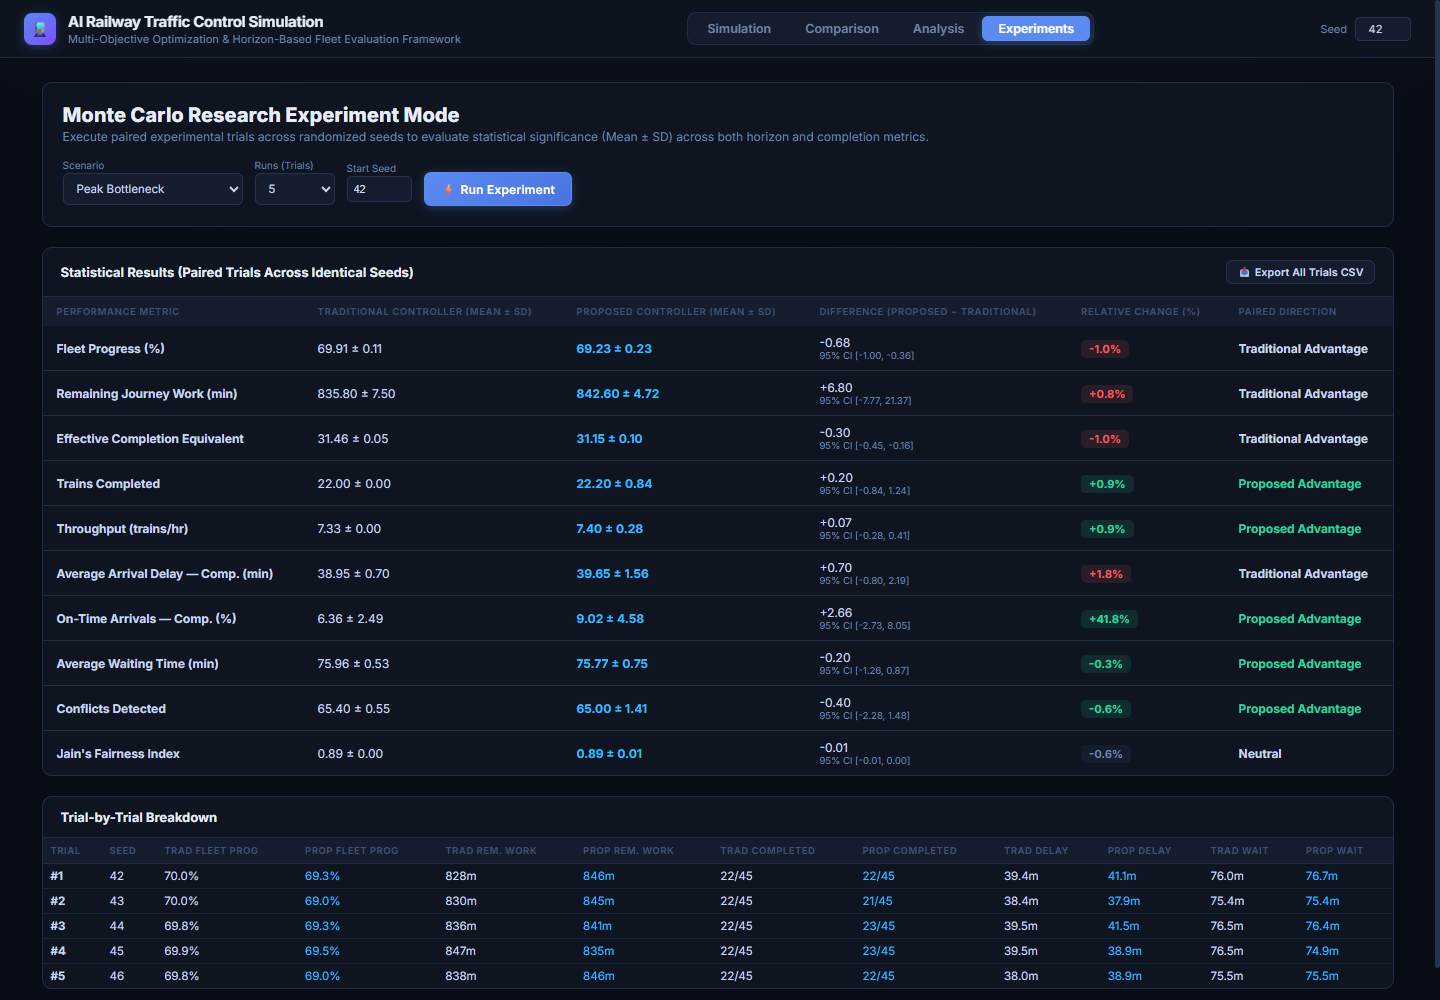
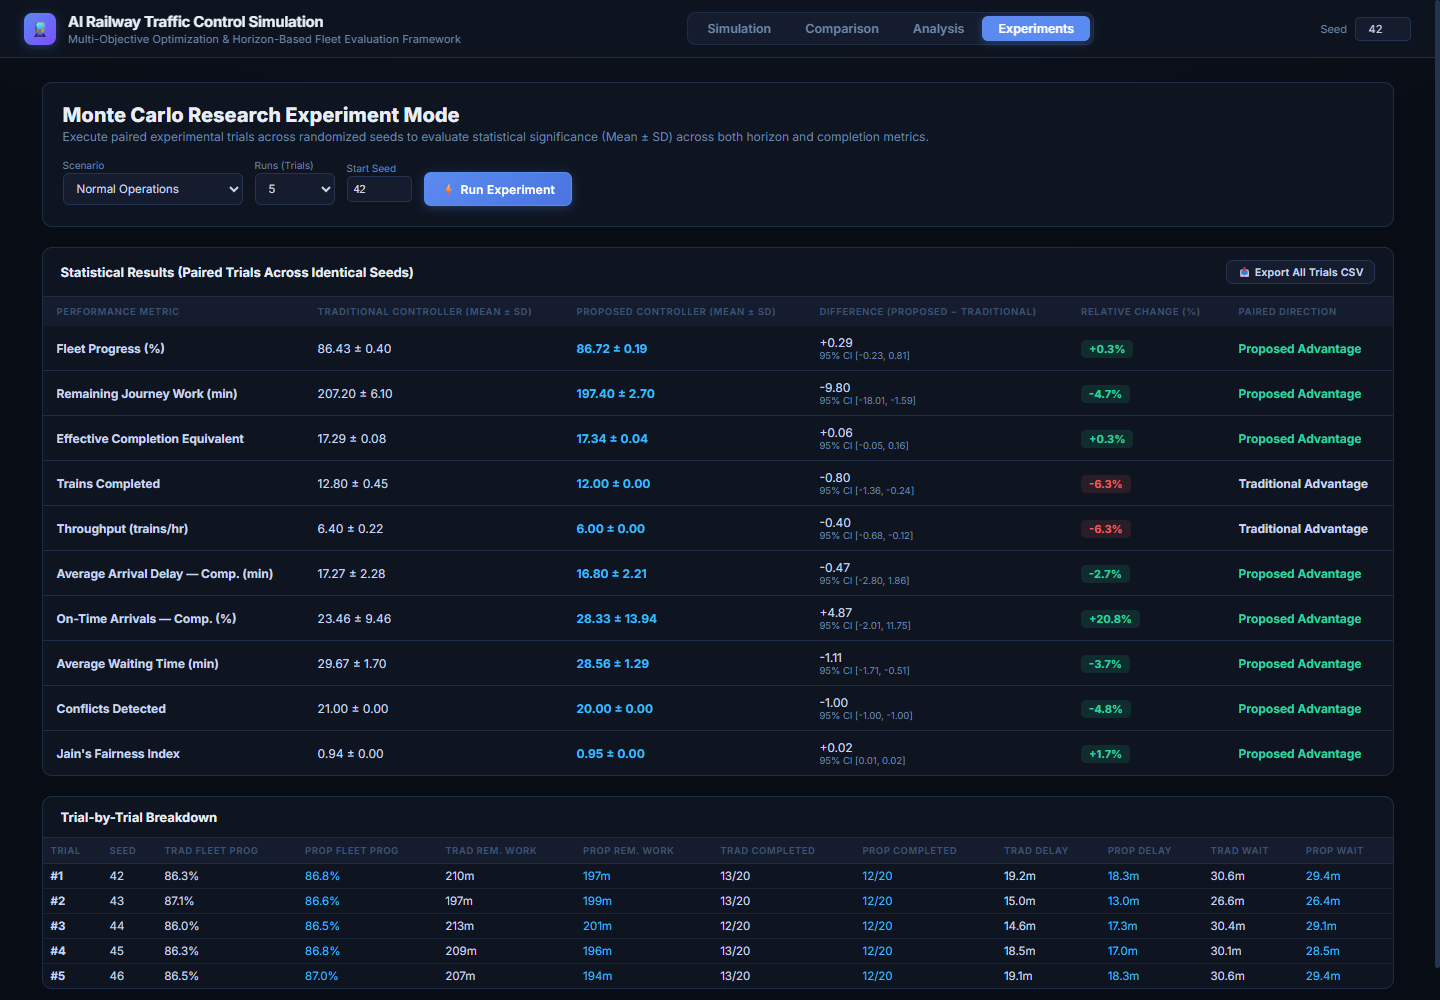
docs(screenshots): replace comparison & experiments images with Normal scenario highlighting multi-objective advantages

diff --git a/railway_simulation/app.html b/railway_simulation/app.html
@@ -3436,14 +3436,27 @@ resizeCanvas();
 drawNetwork(null);
 document.getElementById('cbScenario').textContent = SCENARIOS['peak'].name;
 
-const initHash = window.location.hash || '';
-const initSearch = window.location.search || '';
-if(initHash === '#compare' || initSearch.includes('tab=compare')){
+const initHash = (typeof window !== 'undefined' && window.location && window.location.hash) ? window.location.hash : '';
+const initSearch = (typeof window !== 'undefined' && window.location && window.location.search) ? window.location.search : '';
+
+const scenMatch = (initHash + initSearch).match(/scen(?:ario)?=([a-z_]+)/i);
+if(scenMatch && SCENARIOS[scenMatch[1]]){
+  const sEl = document.getElementById('scenarioSel');
+  if(sEl){
+    sEl.value = scenMatch[1];
+    const cb = document.getElementById('cbScenario');
+    if(cb) cb.textContent = SCENARIOS[scenMatch[1]].name;
+  }
+  const expSEl = document.getElementById('expScenarioSel');
+  if(expSEl) expSEl.value = scenMatch[1];
+}
+
+if(initHash.includes('#compare') || initSearch.includes('tab=compare')){
   runBoth();
-} else if(initHash === '#analysis' || initSearch.includes('tab=analysis')){
+} else if(initHash.includes('#analysis') || initSearch.includes('tab=analysis')){
   runBoth();
   switchTab('analysis');
-} else if(initHash === '#experiments' || initSearch.includes('tab=experiments')){
+} else if(initHash.includes('#experiments') || initSearch.includes('tab=experiments')){
   switchTab('experiments');
   runBatchExperiment();
 }
